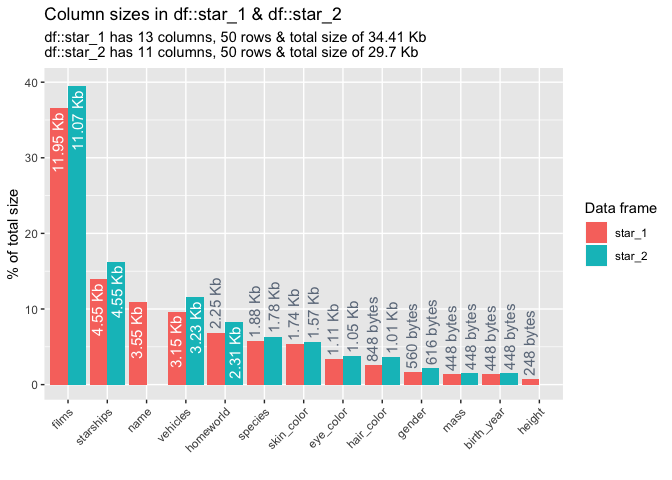
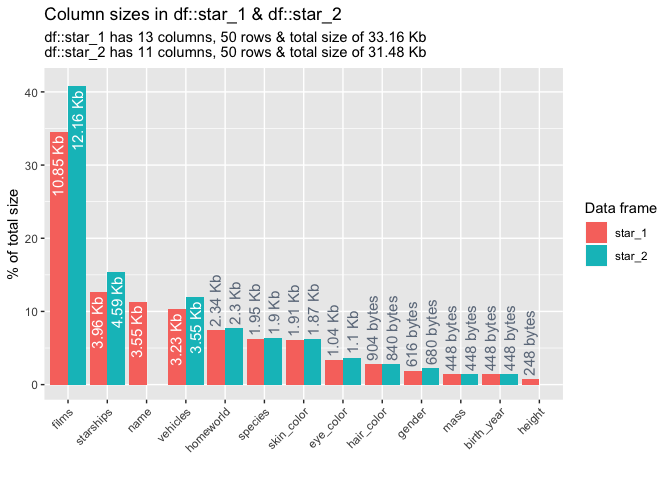
inspect_cor: title CI fix, removed absolute option.  Updated readme.

diff --git a/README.md b/README.md
@@ -162,19 +162,19 @@ inspect_mem(star_1, star_2, show_plot = TRUE)
     ## # A tibble: 13 x 5
     ##    col_name   size_1    size_2    pcnt_1 pcnt_2
     ##    <chr>      <chr>     <chr>      <dbl>  <dbl>
-    ##  1 films      11.95 Kb  11.07 Kb  36.6    39.4 
-    ##  2 starships  4.55 Kb   4.55 Kb   13.9    16.2 
-    ##  3 name       3.55 Kb   <NA>      10.9    NA   
-    ##  4 vehicles   3.15 Kb   3.23 Kb    9.64   11.5 
-    ##  5 homeworld  2.25 Kb   2.31 Kb    6.89    8.24
-    ##  6 species    1.88 Kb   1.78 Kb    5.76    6.35
-    ##  7 skin_color 1.74 Kb   1.57 Kb    5.33    5.60
-    ##  8 eye_color  1.11 Kb   1.05 Kb    3.40    3.76
-    ##  9 hair_color 848 bytes 1.01 Kb    2.53    3.59
-    ## 10 gender     560 bytes 616 bytes  1.67    2.14
-    ## 11 mass       448 bytes 448 bytes  1.34    1.56
-    ## 12 birth_year 448 bytes 448 bytes  1.34    1.56
-    ## 13 height     248 bytes <NA>       0.741  NA
+    ##  1 films      10.85 Kb  12.16 Kb  34.5    40.8 
+    ##  2 starships  3.96 Kb   4.59 Kb   12.6    15.4 
+    ##  3 name       3.55 Kb   <NA>      11.3    NA   
+    ##  4 vehicles   3.23 Kb   3.55 Kb   10.3    11.9 
+    ##  5 homeworld  2.34 Kb   2.3 Kb     7.43    7.72
+    ##  6 species    1.95 Kb   1.9 Kb     6.19    6.36
+    ##  7 skin_color 1.91 Kb   1.87 Kb    6.07    6.26
+    ##  8 eye_color  1.04 Kb   1.1 Kb     3.31    3.69
+    ##  9 hair_color 904 bytes 840 bytes  2.81    2.75
+    ## 10 gender     616 bytes 680 bytes  1.91    2.23
+    ## 11 mass       448 bytes 448 bytes  1.39    1.47
+    ## 12 birth_year 448 bytes 448 bytes  1.39    1.47
+    ## 13 height     248 bytes <NA>       0.771  NA
 
 #### Missing values
 
@@ -226,13 +226,13 @@ inspect_na(star_1, star_2, show_plot = TRUE)
     ## # A tibble: 13 x 6
     ##    col_name   cnt_1 pcnt_1 cnt_2 pcnt_2 p_value
     ##    <chr>      <int>  <dbl> <int>  <dbl>   <dbl>
-    ##  1 birth_year    27     54    25     50   0.841
-    ##  2 mass          12     24    15     30   0.652
-    ##  3 homeworld      6     12     7     14   1    
-    ##  4 height         3      6    NA     NA  NA    
-    ##  5 hair_color     3      6     2      4   1.000
-    ##  6 gender         3      6     1      2   0.610
-    ##  7 species        3      6     4      8   1.000
+    ##  1 birth_year    25     50    24     48   1    
+    ##  2 mass          17     34    14     28   0.665
+    ##  3 homeworld      5     10     6     12   1.000
+    ##  4 height         4      8    NA     NA  NA    
+    ##  5 hair_color     3      6     4      8   1.000
+    ##  6 gender         2      4     2      4   1    
+    ##  7 species        1      2     4      8   0.359
     ##  8 name           0      0    NA     NA  NA    
     ##  9 skin_color     0      0     0      0  NA    
     ## 10 eye_color      0      0     0      0  NA    
@@ -302,11 +302,11 @@ inspect_cor(star_1, star_2, show_plot = TRUE)
 ![](man/figures/README-unnamed-chunk-13-1.png)<!-- -->
 
     ## # A tibble: 3 x 5
-    ##   col_1      col_2  corr_1  corr_2 p_value
-    ##   <chr>      <chr>   <dbl>   <dbl>   <dbl>
-    ## 1 mass       height  0.834  NA      NA    
-    ## 2 birth_year height -0.582  NA      NA    
-    ## 3 birth_year mass   -0.438  -0.443   0.978
+    ##   col_1      col_2  corr_1 corr_2 p_value
+    ##   <chr>      <chr>   <dbl>  <dbl>   <dbl>
+    ## 1 mass       height  0.752 NA      NA    
+    ## 2 birth_year height  0.568 NA      NA    
+    ## 3 birth_year mass    0.374  0.470   0.571
 
 Notes:
 
@@ -362,15 +362,15 @@ inspect_imb(star_1, star_2, show_plot = TRUE)
 ![](man/figures/README-unnamed-chunk-15-1.png)<!-- -->
 
     ## # A tibble: 7 x 7
-    ##   col_name   value      pcnt_1 cnt_1 pcnt_2 cnt_2 p_value
-    ##   <chr>      <chr>       <dbl> <int>  <dbl> <int>   <dbl>
-    ## 1 gender     male           76     9     78     9       1
-    ## 2 hair_color none           50     1     40     1       1
-    ## 3 species    Human          38     1     44     1       1
-    ## 4 eye_color  brown          24     6     32     6       1
-    ## 5 homeworld  Naboo          16     1     NA    NA      NA
-    ## 6 skin_color fair           16     1     24     1       1
-    ## 7 name       Adi Gallia      2     1     NA    NA      NA
+    ##   col_name   value    pcnt_1 cnt_1 pcnt_2 cnt_2 p_value
+    ##   <chr>      <chr>     <dbl> <int>  <dbl> <int>   <dbl>
+    ## 1 gender     male        66     14    72      9   0.342
+    ## 2 hair_color none        40      1    42      1   1    
+    ## 3 species    Human       38      1    38      1   1    
+    ## 4 eye_color  brown       24      6    28.     6   1    
+    ## 5 skin_color fair        16      2    18      1   1    
+    ## 6 homeworld  Tatooine    14.     1    NA     NA  NA    
+    ## 7 name       Ackbar       2      1    NA     NA  NA
 
   - Smaller `p_value` indicates stronger evidence against the null
     hypothesis that the true frequency of the most common values is the
@@ -441,6 +441,21 @@ inspect_num(starwars)$hist$birth_year
 
 ##### `inspect_num()` for two dataframes
 
+When comparing a pair of dataframes using `inspect_num()`, the
+histograms of common numeric features are calculated, using identical
+bins. The list columns `hist_1` and `hist_2` contain the histograms of
+the features in the first and second dataframes. A formal statistical
+comparison of each pair of histograms is calculated using Fisher’s exact
+test, the resulting *p* value is reported in the column `fisher_p`.
+
+When `show_plot = TRUE`, heat plot comparisons are returned for each
+numeric column in each dataframe. Where a column is present in only one
+of the dataframes, grey cells are shown in the comparison. The
+significance of Fisher’s test is illustrated by coloured vertical bands
+around each plot: if the colour is grey, no *p* value could be
+calculated, if blue, the histograms are not found to be significantly
+different otherwise the bands are red.
+
 ``` r
 inspect_num(star_1, star_2, show_plot = TRUE)
 ```
@@ -448,11 +463,11 @@ inspect_num(star_1, star_2, show_plot = TRUE)
 ![](man/figures/README-unnamed-chunk-18-1.png)<!-- -->
 
     ## # A tibble: 3 x 5
-    ##   col_name   hist_1            hist_2                 psi fisher_p
-    ##   <chr>      <list>            <list>               <dbl>    <dbl>
-    ## 1 birth_year <tibble [20 × 2]> <tibble [20 × 2]>  0.00384    0.724
-    ## 2 height     <tibble [23 × 2]> <NULL>            NA         NA    
-    ## 3 mass       <tibble [27 × 2]> <tibble [27 × 2]>  0.0778     0.995
+    ##   col_name   hist_1            hist_2               psi fisher_p
+    ##   <chr>      <list>            <list>             <dbl>    <dbl>
+    ## 1 birth_year <tibble [22 × 2]> <tibble [22 × 2]>  0.494   0.0138
+    ## 2 height     <tibble [18 × 2]> <NULL>            NA      NA     
+    ## 3 mass       <tibble [27 × 2]> <tibble [27 × 2]>  0.217   0.251
 
 #### Categorical levels
 
@@ -517,6 +532,12 @@ distinct categorical level.
 
 ##### `inspect_cat()` for two dataframes
 
+When two dataframes are compared using `inspect_cat()`, list columns are
+returned for categorical columns common to both: `lvls_1` and `lvl2_2`.
+In addition, the population stability index (`psi`) and *p* values
+associated with Fisher’s exact test (`fisher_p`) are returned to enable
+comparison of the distribution of levels in each pair of columns.
+
 ``` r
 inspect_cat(star_1, star_2, show_plot = TRUE)
 ```
@@ -526,10 +547,13 @@ inspect_cat(star_1, star_2, show_plot = TRUE)
     ## # A tibble: 7 x 5
     ##   col_name       psi fisher_p lvls_1            lvls_2           
     ##   <chr>        <dbl>    <dbl> <list>            <list>           
-    ## 1 eye_color   0.194     0.904 <tibble [12 × 2]> <tibble [11 × 2]>
-    ## 2 gender      0.0445    0.782 <tibble [3 × 2]>  <tibble [4 × 2]> 
-    ## 3 hair_color  0.0642    0.954 <tibble [8 × 2]>  <tibble [11 × 2]>
-    ## 4 homeworld   0.0528    1     <tibble [32 × 2]> <tibble [33 × 2]>
+    ## 1 eye_color   0.0666    0.996 <tibble [11 × 2]> <tibble [12 × 2]>
+    ## 2 gender      0.0633    0.683 <tibble [4 × 2]>  <tibble [5 × 2]> 
+    ## 3 hair_color  0.0321    0.943 <tibble [9 × 2]>  <tibble [8 × 2]> 
+    ## 4 homeworld   0.139     1     <tibble [33 × 2]> <tibble [33 × 2]>
     ## 5 name       NA        NA     <tibble [50 × 2]> <NULL>           
-    ## 6 skin_color  0.118     0.995 <tibble [22 × 2]> <tibble [19 × 2]>
-    ## 7 species     0.0365    1.000 <tibble [26 × 2]> <tibble [24 × 2]>
+    ## 6 skin_color  0.116     0.997 <tibble [25 × 2]> <tibble [24 × 2]>
+    ## 7 species     0.131     1     <tibble [27 × 2]> <tibble [26 × 2]>
+
+When `show_plot = TRUE`, a barplot is returned comparing distributions
+of levels in pairs of columns shared by the two dataframes.
